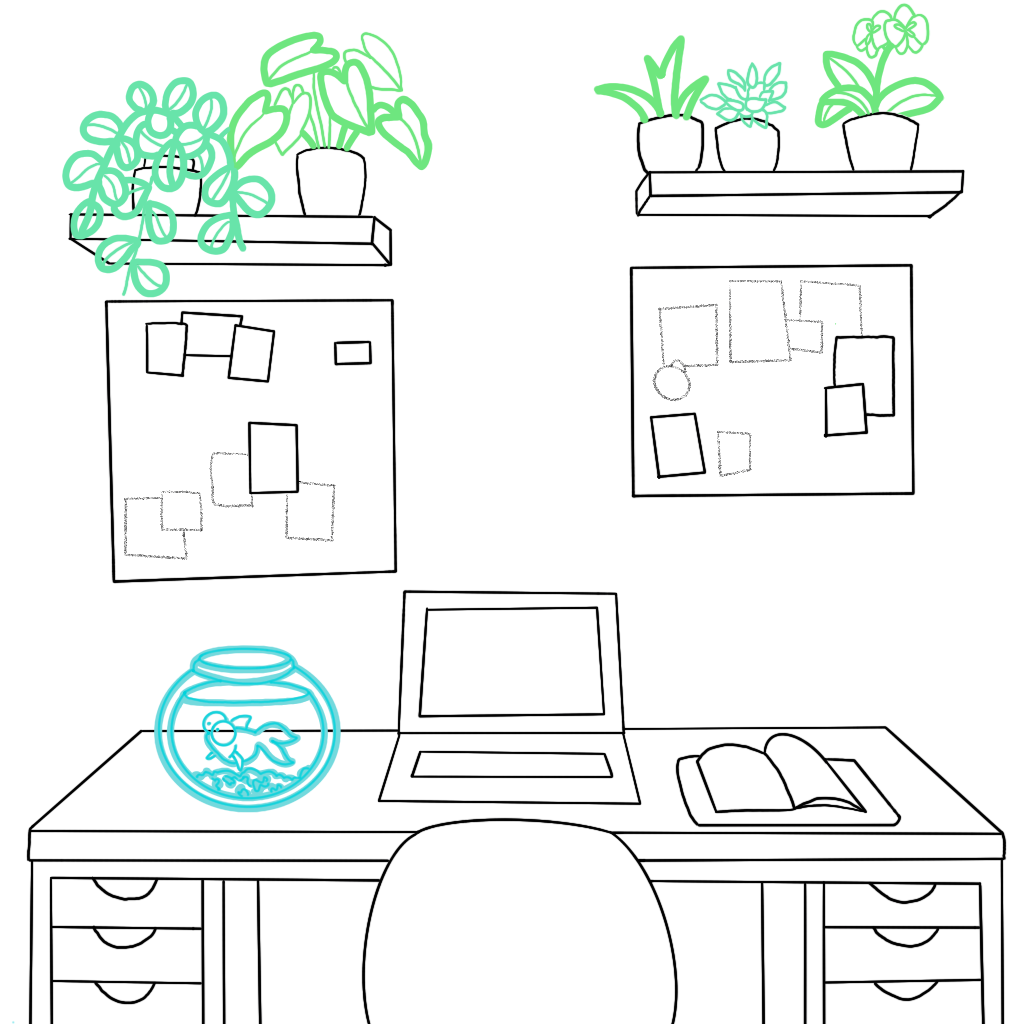
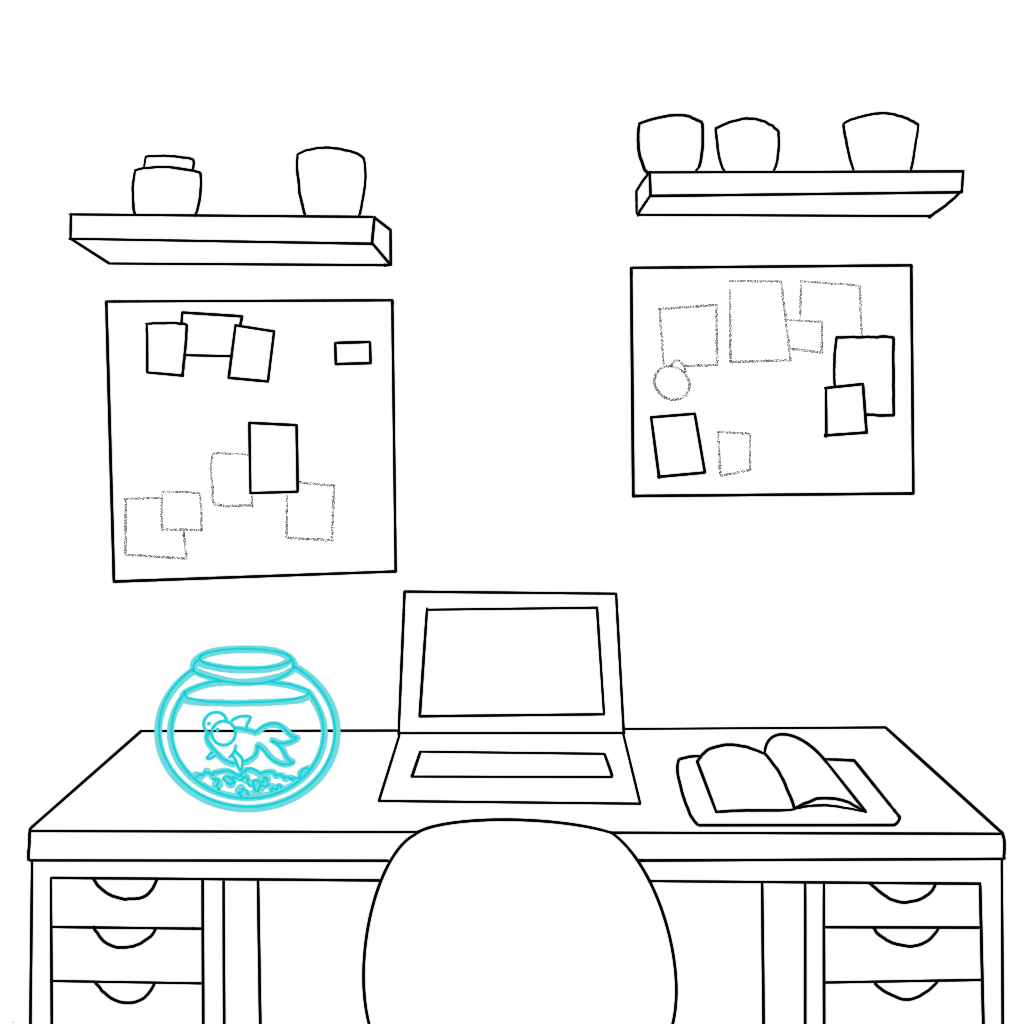
update

Changed region(s): [[0.0625, 0.0312, 0.4375, 0.3125], [0.5625, 0.0, 0.9375, 0.125]]

diff --git a/script.js b/script.js
@@ -4,22 +4,22 @@
 //switch image1.jpg and image2.jpg with paths to actual images
 document.getElementById("changeButton").addEventListener("click", function() {
     var currentImage = document.getElementById("mainImage").src;
-    if (currentImage.endsWith("Plants2.png")) {
-        document.getElementById("mainImage").src = "Cat_1.png";
+    if (currentImage.endsWith("CM.png")) {
+        document.getElementById("mainImage").src = "Cat12.png";
     }
-    else if (currentImage.endsWith("Cat_1.png")) {
-        document.getElementById("mainImage").src = "Cat_2.png";
+    else if (currentImage.endsWith("Cat12.png")) {
+        document.getElementById("mainImage").src = "Cat22.png";
     }
-    else if (currentImage.endsWith("Cat_2.png")) {
+    else if (currentImage.endsWith("Cat22.png")) {
         document.getElementById("mainImage").src = "Fish2.png";
     }
     else if (currentImage.endsWith("Fish2.png")) {
-        document.getElementById("mainImage").src = "Plants.png";
-    }
-    else if (currentImage.endsWith("Plants.png")) {
-        document.getElementById("mainImage").src = "Cups.png";
-    }
-    else if (currentImage.endsWith("Cups.png")) {
         document.getElementById("mainImage").src = "Plants2.png";
+    }
+    else if (currentImage.endsWith("Plants2.png")) {
+        document.getElementById("mainImage").src = "Cups2.png";
+    }
+    else if (currentImage.endsWith("Cups2.png")) {
+        document.getElementById("mainImage").src = "CM.png";
     }
 });

diff --git a/index.html b/index.html
@@ -62,7 +62,7 @@
             <div class="container">
                 <!-- Text Displayed as Button-->
                 <h1>Change Image on Button Click</h1>
-                <img id="mainImage" src="Plants2.png" alt="Main Image">
+                <img id="mainImage" src="CM.png" alt="Main Image">
                 <button id="changeButton" type="button">Change Element</button>
             </div>
         </section> <!-- section-->
